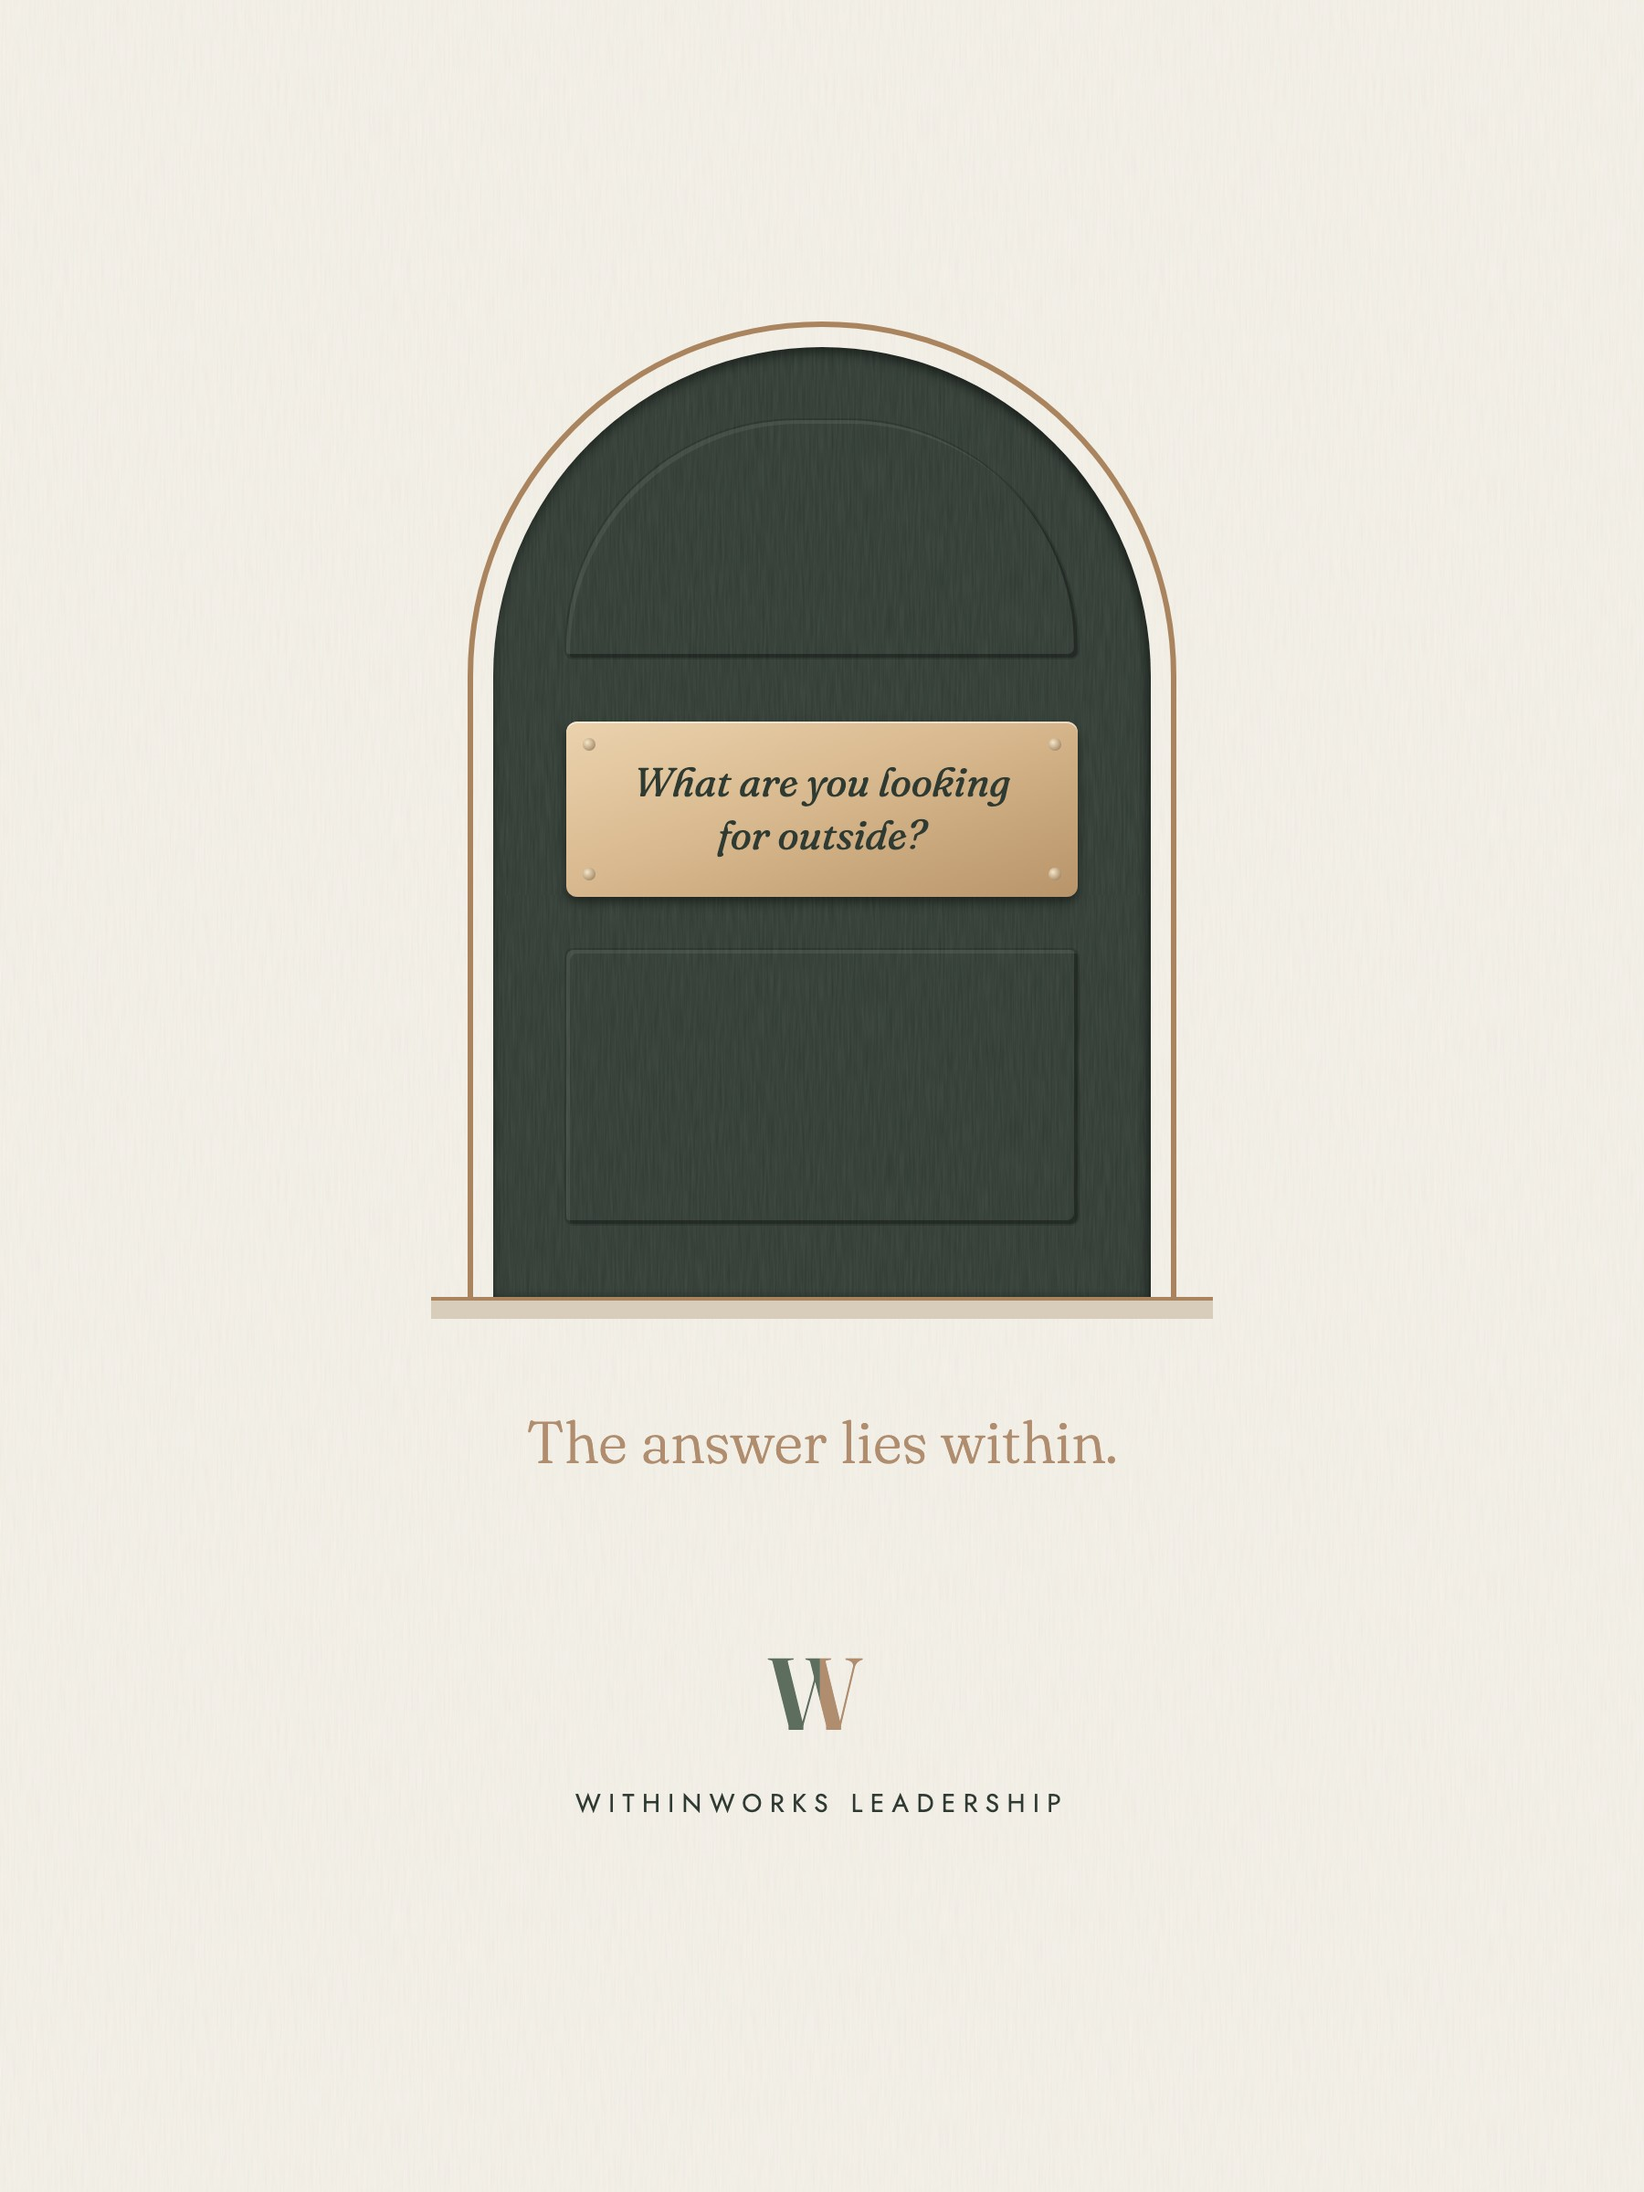
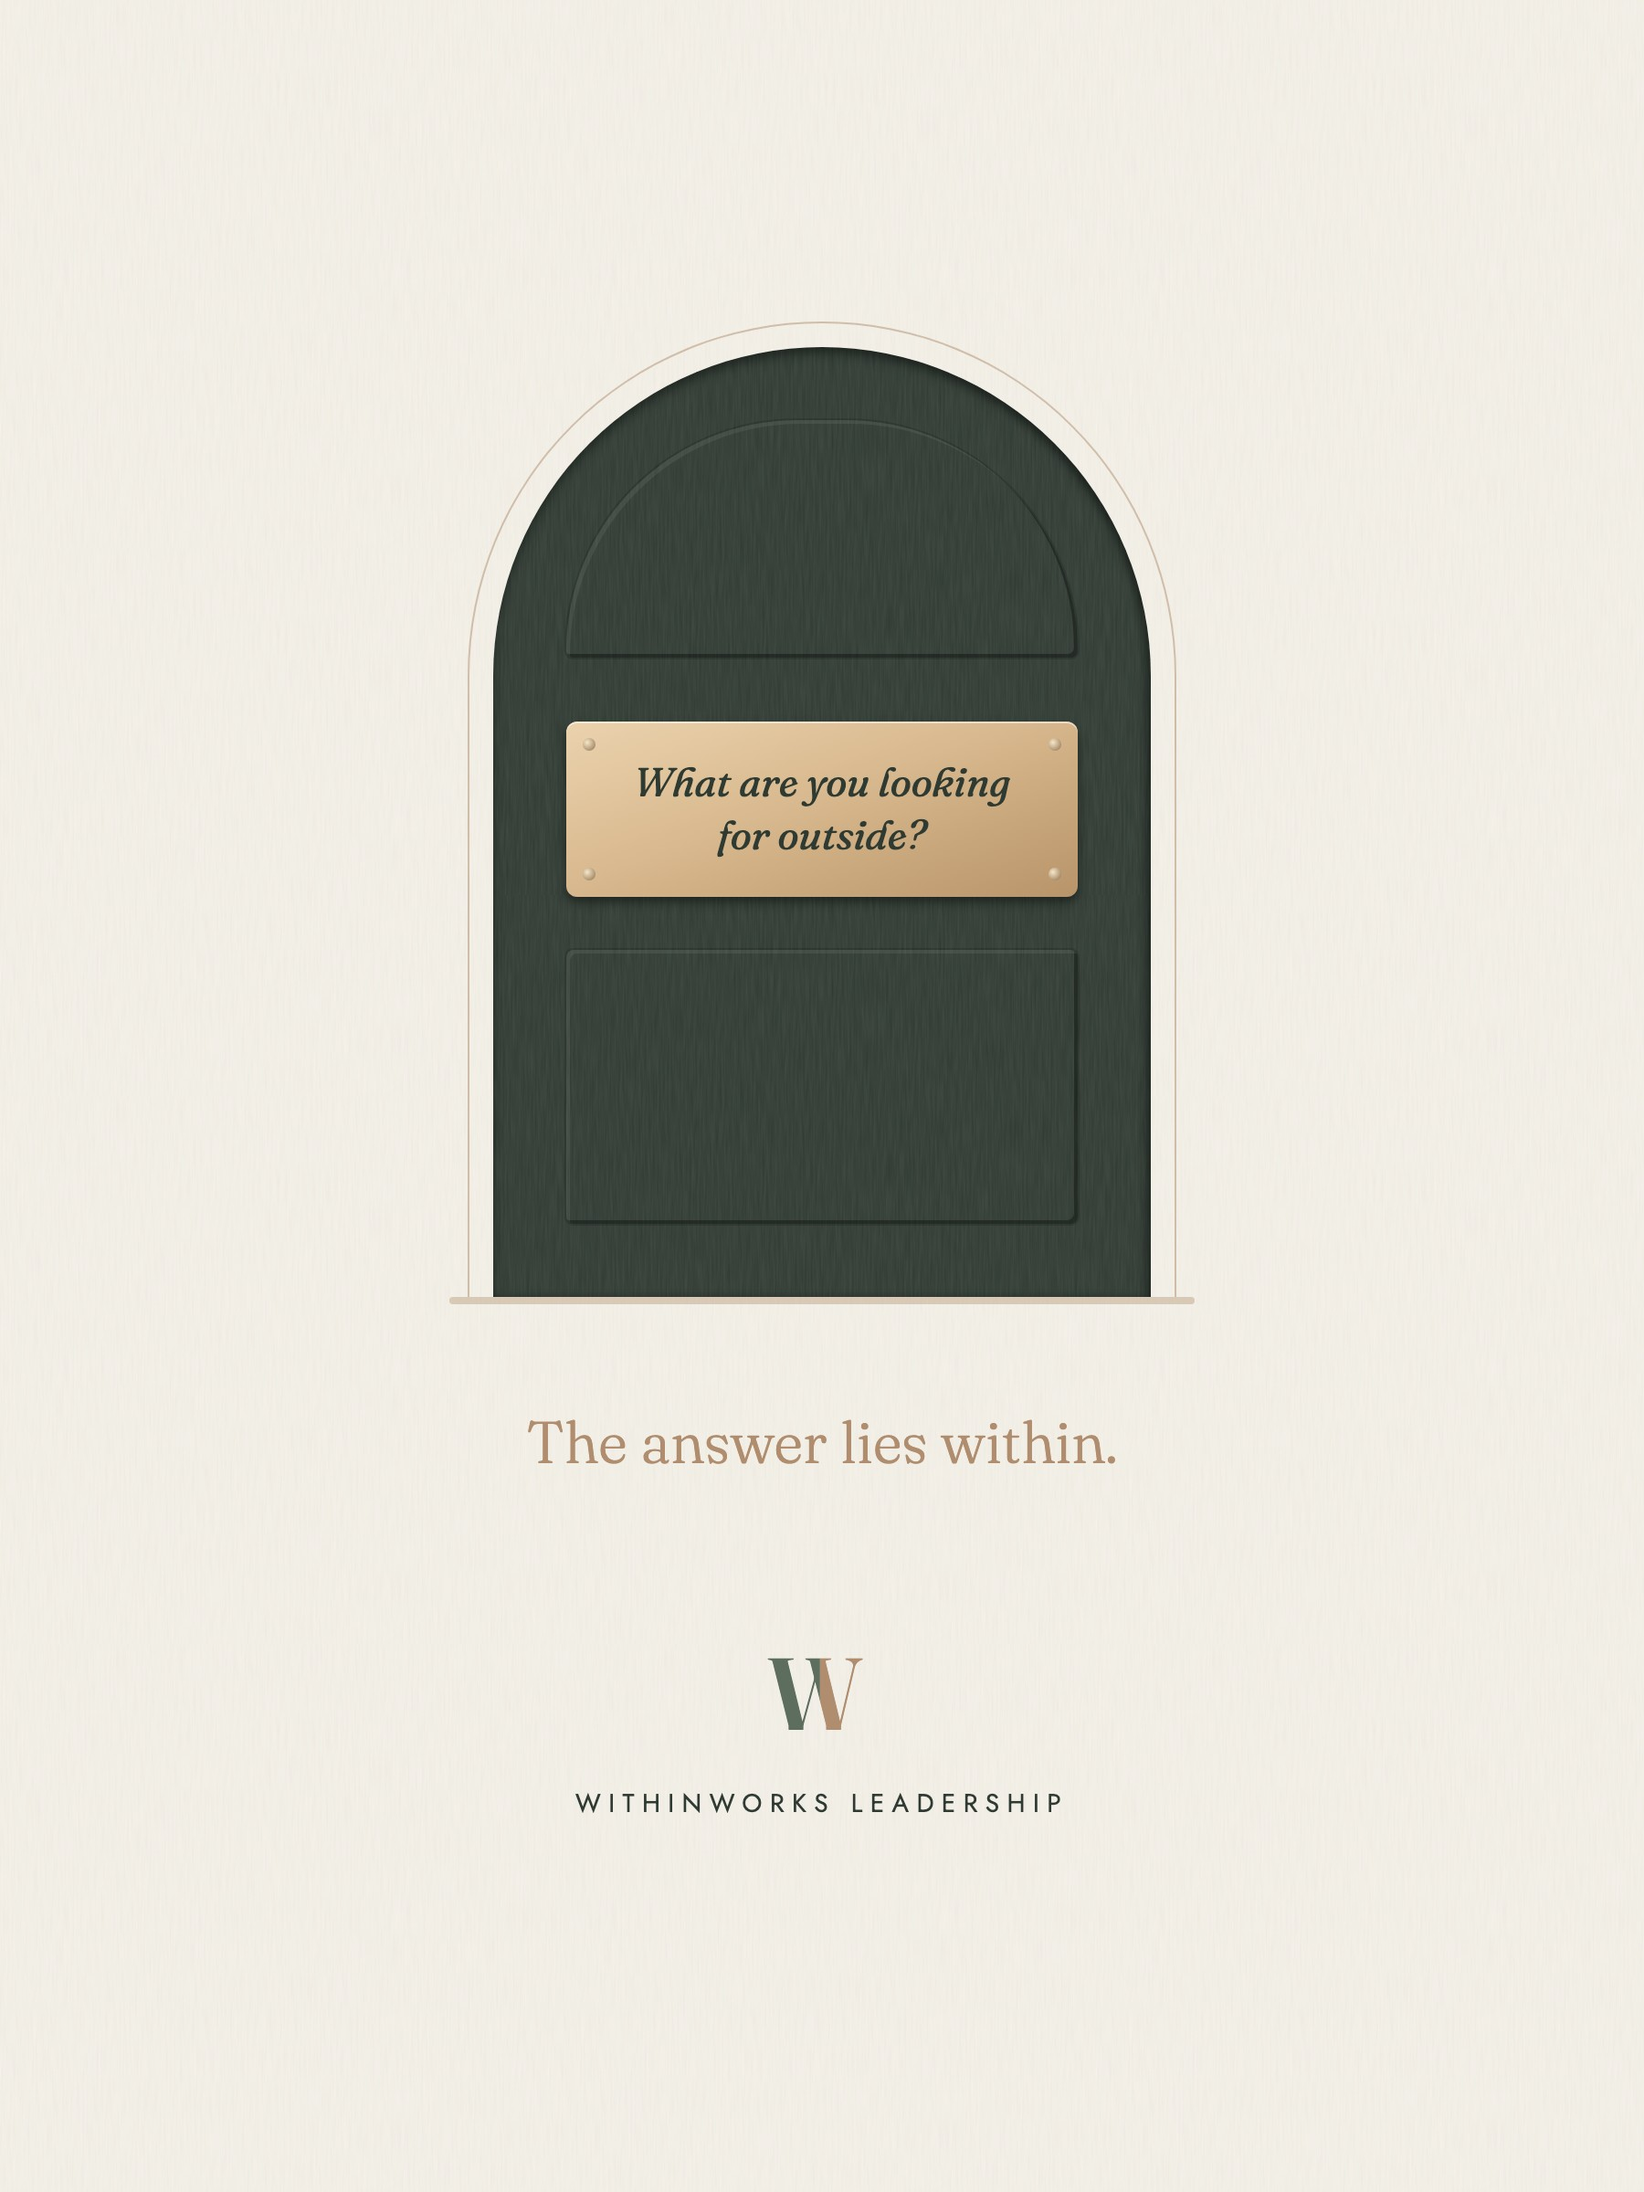
Folder B: finer outer line and a soft threshold

diff --git a/working-material.html b/working-material.html
@@ -22,11 +22,11 @@
 <section class="page-hero"><div class="shell"><p class="eyebrow">Working material</p><h1>In the <em>session</em></h1><p class="lede">The sheets Megha uses with clients, in the order she uses them.</p></div></section><section><div class="shell"><div class="card tint"><h3>How the sessions use them</h3>
 <p>The work starts with the <b>Wheel of Life</b> to see where you are, then the <b>Values Sheet</b> to name what matters, then the
 <b>Saboteurs Worksheet</b>, where your top three values show what each inner voice costs you. The client leads; curiosity comes
-before advice, and every session ends with one thing you will notice or do that week.</p></div><div class="card" style="padding:0;overflow:hidden;margin-top:24px"><img src="working-material/values.jpg?v=1794395784" alt="Values Sheet" style="width:100%;display:block;border-bottom:1px solid #eee">
+before advice, and every session ends with one thing you will notice or do that week.</p></div><div class="card" style="padding:0;overflow:hidden;margin-top:24px"><img src="working-material/values.jpg?v=1794396819" alt="Values Sheet" style="width:100%;display:block;border-bottom:1px solid #eee">
 <div style="padding:22px 26px"><p class="eyebrow">Print, A4</p><h3>Values Sheet</h3><p>Circle the words that pull you, narrow to five, then write your top three in your own words with a moment you lived each one. Ends on: which value am I honouring least right now?</p>
-<p style="margin-top:12px"><a class="btn" href="working-material/values.pdf" target="_blank" rel="noopener">Open the PDF</a></p></div></div><div class="card" style="padding:0;overflow:hidden;margin-top:24px"><img src="working-material/saboteurs.jpg?v=1794395784" alt="Saboteurs Worksheet" style="width:100%;display:block;border-bottom:1px solid #eee">
+<p style="margin-top:12px"><a class="btn" href="working-material/values.pdf" target="_blank" rel="noopener">Open the PDF</a></p></div></div><div class="card" style="padding:0;overflow:hidden;margin-top:24px"><img src="working-material/saboteurs.jpg?v=1794396819" alt="Saboteurs Worksheet" style="width:100%;display:block;border-bottom:1px solid #eee">
 <div style="padding:22px 26px"><p class="eyebrow">Print, A4</p><h3>Saboteurs Worksheet</h3><p>The old strategies that once kept you safe and now steer without permission: Controller, Pleaser, Hyper-Achiever, Restless, or your own. For each, when it shows up, what it says, what it costs and which value it sacrifices. Then: meeting your Inner Leader.</p>
-<p style="margin-top:12px"><a class="btn" href="working-material/saboteurs.pdf" target="_blank" rel="noopener">Open the PDF</a></p></div></div><div class="card" style="padding:0;overflow:hidden;margin-top:24px"><img src="working-material/wheel.jpg?v=1794395784" alt="Wheel of Life" style="width:100%;display:block;border-bottom:1px solid #eee">
+<p style="margin-top:12px"><a class="btn" href="working-material/saboteurs.pdf" target="_blank" rel="noopener">Open the PDF</a></p></div></div><div class="card" style="padding:0;overflow:hidden;margin-top:24px"><img src="working-material/wheel.jpg?v=1794396819" alt="Wheel of Life" style="width:100%;display:block;border-bottom:1px solid #eee">
 <div style="padding:22px 26px"><p class="eyebrow">Fill in on screen</p><h3>Wheel of Life</h3><p>Eight areas of life, chosen by you, each rated 1 to 10 for how satisfied you feel now. Then: which area surprised you, where is the biggest gap, and which one point would change the most.</p>
 <p style="margin-top:12px"><a class="btn" href="working-material/wheel.pdf" target="_blank" rel="noopener">Open the PDF</a></p></div></div></div></section>
 <div class="shell"><nav class="doors"><a href="./">Brain</a><a href="content/">Instagram</a><a href="linkedin/">LinkedIn</a><a href="stories/">Stories</a><a href="reel-cuts/">Reels</a><a href="printables.html">Printables</a><a href="working-material.html" class="here">Working material</a><a href="strategy.html">Strategy</a><a href="megha.html">Megha</a><a href="voice.html">Voice</a><a href="audience.html">Audience</a><a href="brand.html">Brand</a><a href="offers.html">Offers</a><a href="tech.html">Tech</a><a href="photos.html">Photos</a><a href="research.html">Research</a><a href="ideas.html">Ideas</a></nav></div>

diff --git a/printables.html b/printables.html
@@ -20,10 +20,10 @@
 <a class="brand" href="./"><svg class="mark"><use href="#ww"/></svg><span><b>WithinWorks</b><small>The Brain</small></span></a><a class="crumb" href="./">&larr; Brain</a>
 </div></header>
 <section class="page-hero"><div class="shell"><p class="eyebrow">Printables</p><h1>Two <em>folders</em></h1><p class="lede">For client meetings: front and back, then the inside. Approve the one you prefer, or comment.</p></div></section><section><div class="shell"><article class="post-wrap" id="pf-a"><p class="eyebrow" style="margin-bottom:10px">Folder A · The path</p>
-<div class="card" style="padding:0;overflow:hidden"><img src="printables/fm-a.jpg?v=1794395784" alt="" style="width:100%;display:block"><img src="printables/fi-a.jpg?v=1794395784" alt="" style="width:100%;display:block">
+<div class="card" style="padding:0;overflow:hidden"><img src="printables/fm-a.jpg?v=1794396819" alt="" style="width:100%;display:block"><img src="printables/fi-a.jpg?v=1794396819" alt="" style="width:100%;display:block">
 <div style="padding:22px 26px"><p>Forest linen. A die-cut S-curve flap opens onto a pearl-green layer, the W and name in gold foil. The back carries her words, the Instagram and website QR codes and her contact details. Inside: the journey, a session sheet, and a pocket for her card.</p></div></div>
 <div class="review post" data-id="pf-a" data-rev="" data-title="Folder A · The path" style="background:none;border:0;padding:14px 0 0"></div></article><article class="post-wrap" id="pf-b"><p class="eyebrow" style="margin-bottom:10px">Folder B · The door</p>
-<div class="card" style="padding:0;overflow:hidden"><img src="printables/fm-c.jpg?v=1794395784" alt="" style="width:100%;display:block"><img src="printables/fi-c.jpg?v=1794395784" alt="" style="width:100%;display:block">
+<div class="card" style="padding:0;overflow:hidden"><img src="printables/fm-c.jpg?v=1794396819" alt="" style="width:100%;display:block"><img src="printables/fi-c.jpg?v=1794396819" alt="" style="width:100%;display:block">
 <div style="padding:22px 26px"><p>Ivory linen with an arched forest door and a brass nameplate: “What are you looking for outside?” Below the door: “The answer lies within.” The back and inside follow the same system, in the light version.</p></div></div>
 <div class="review post" data-id="pf-b" data-rev="" data-title="Folder B · The door" style="background:none;border:0;padding:14px 0 0"></div></article></div></section>
 <div class="shell"><nav class="doors"><a href="./">Brain</a><a href="content/">Instagram</a><a href="linkedin/">LinkedIn</a><a href="stories/">Stories</a><a href="reel-cuts/">Reels</a><a href="printables.html" class="here">Printables</a><a href="working-material.html">Working material</a><a href="strategy.html">Strategy</a><a href="megha.html">Megha</a><a href="voice.html">Voice</a><a href="audience.html">Audience</a><a href="brand.html">Brand</a><a href="offers.html">Offers</a><a href="tech.html">Tech</a><a href="photos.html">Photos</a><a href="research.html">Research</a><a href="ideas.html">Ideas</a></nav></div>
